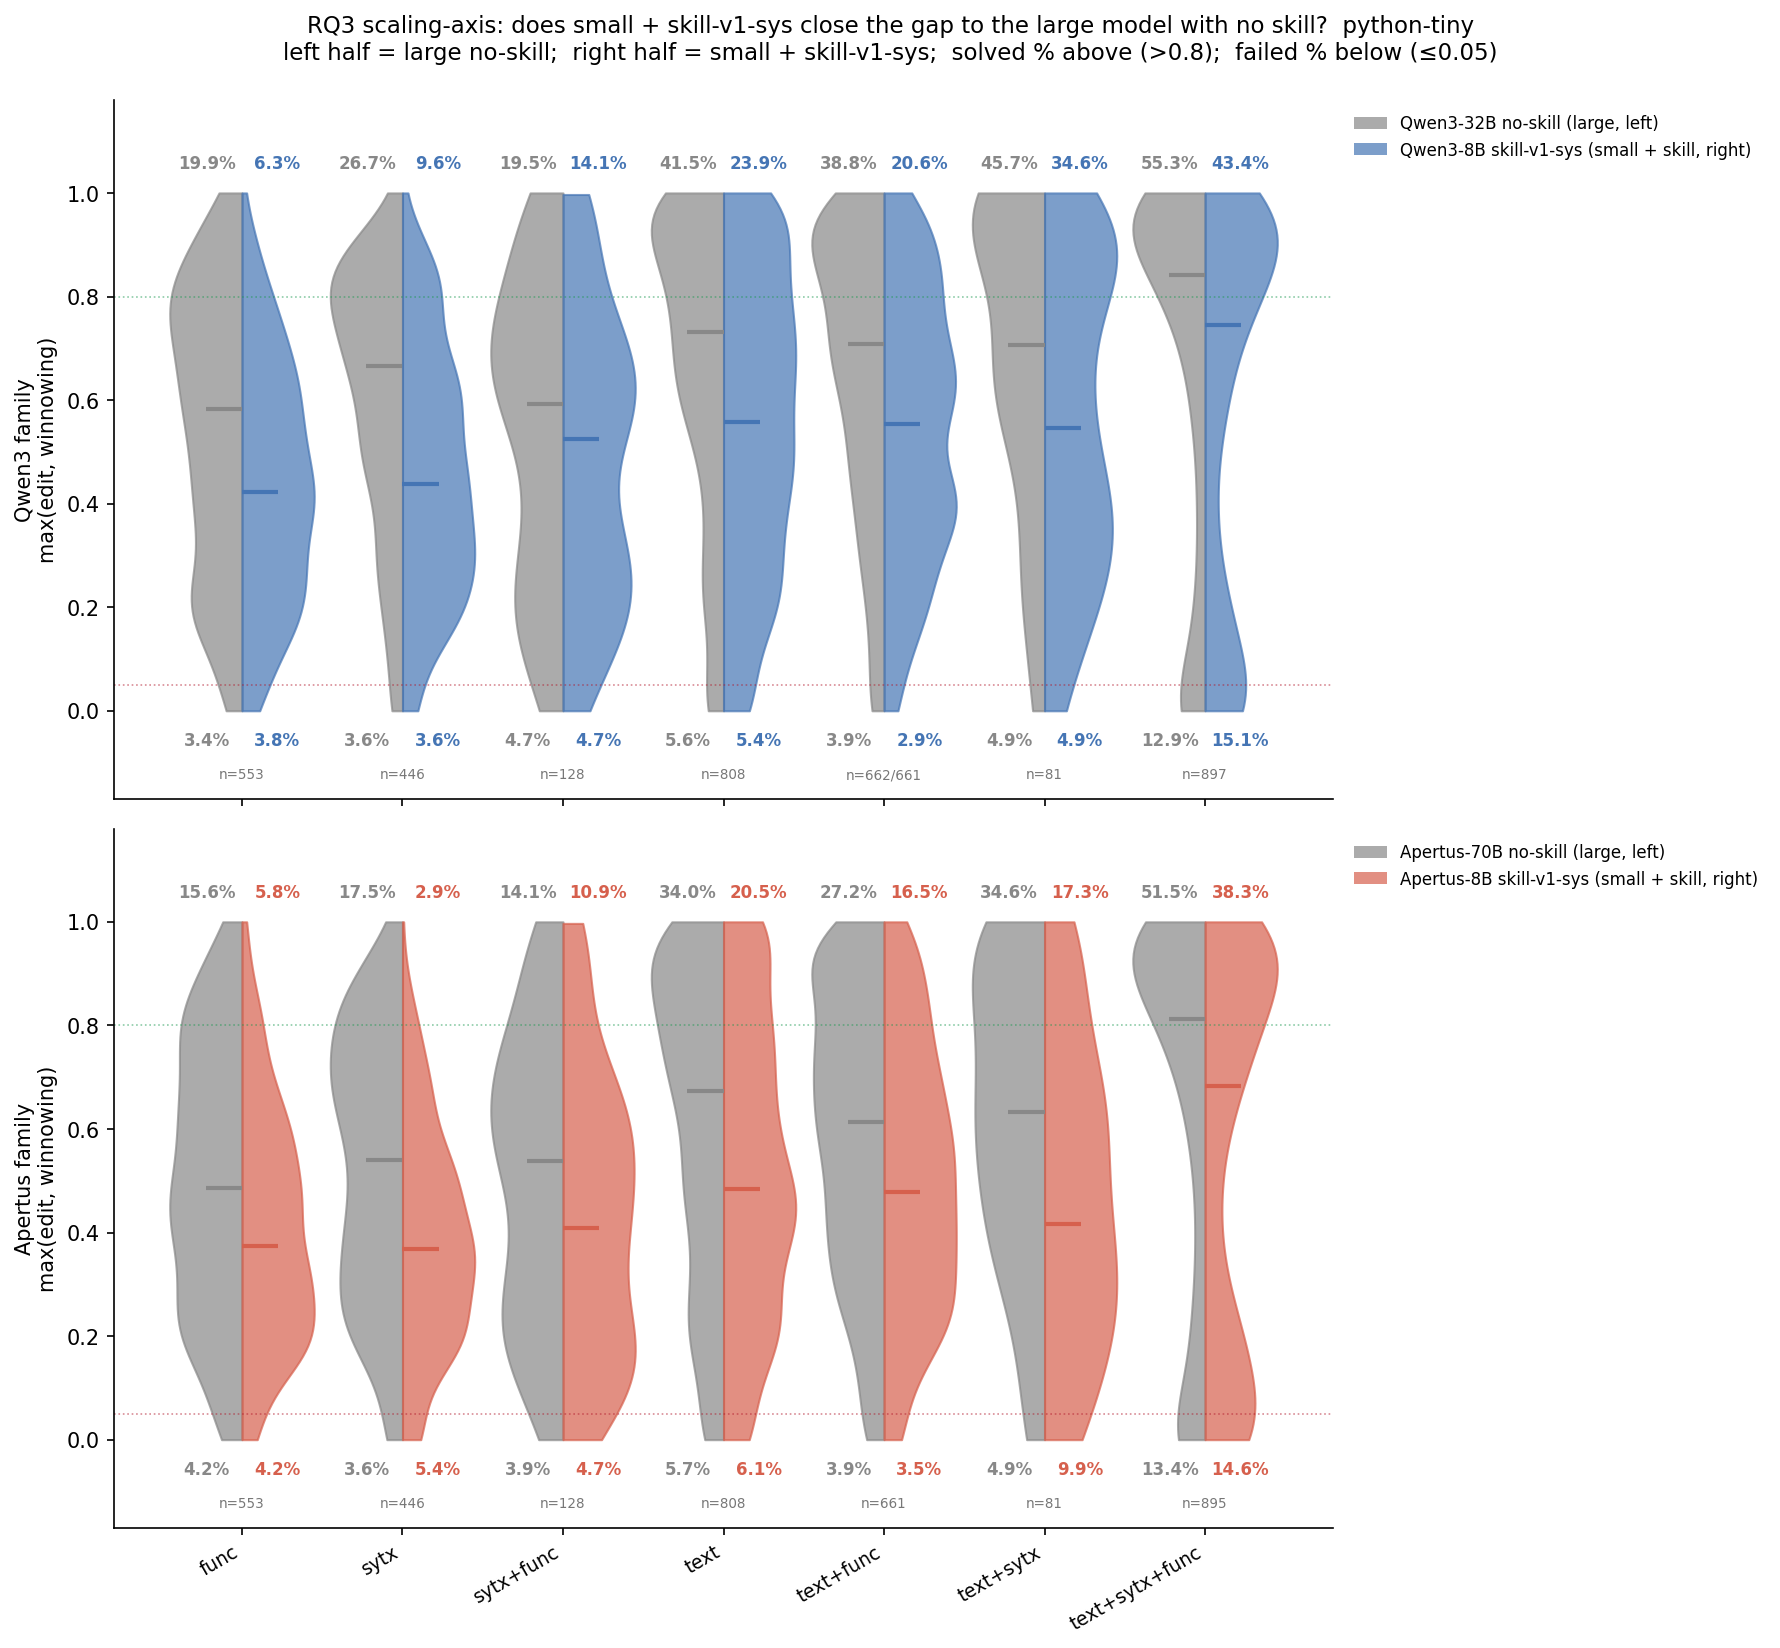
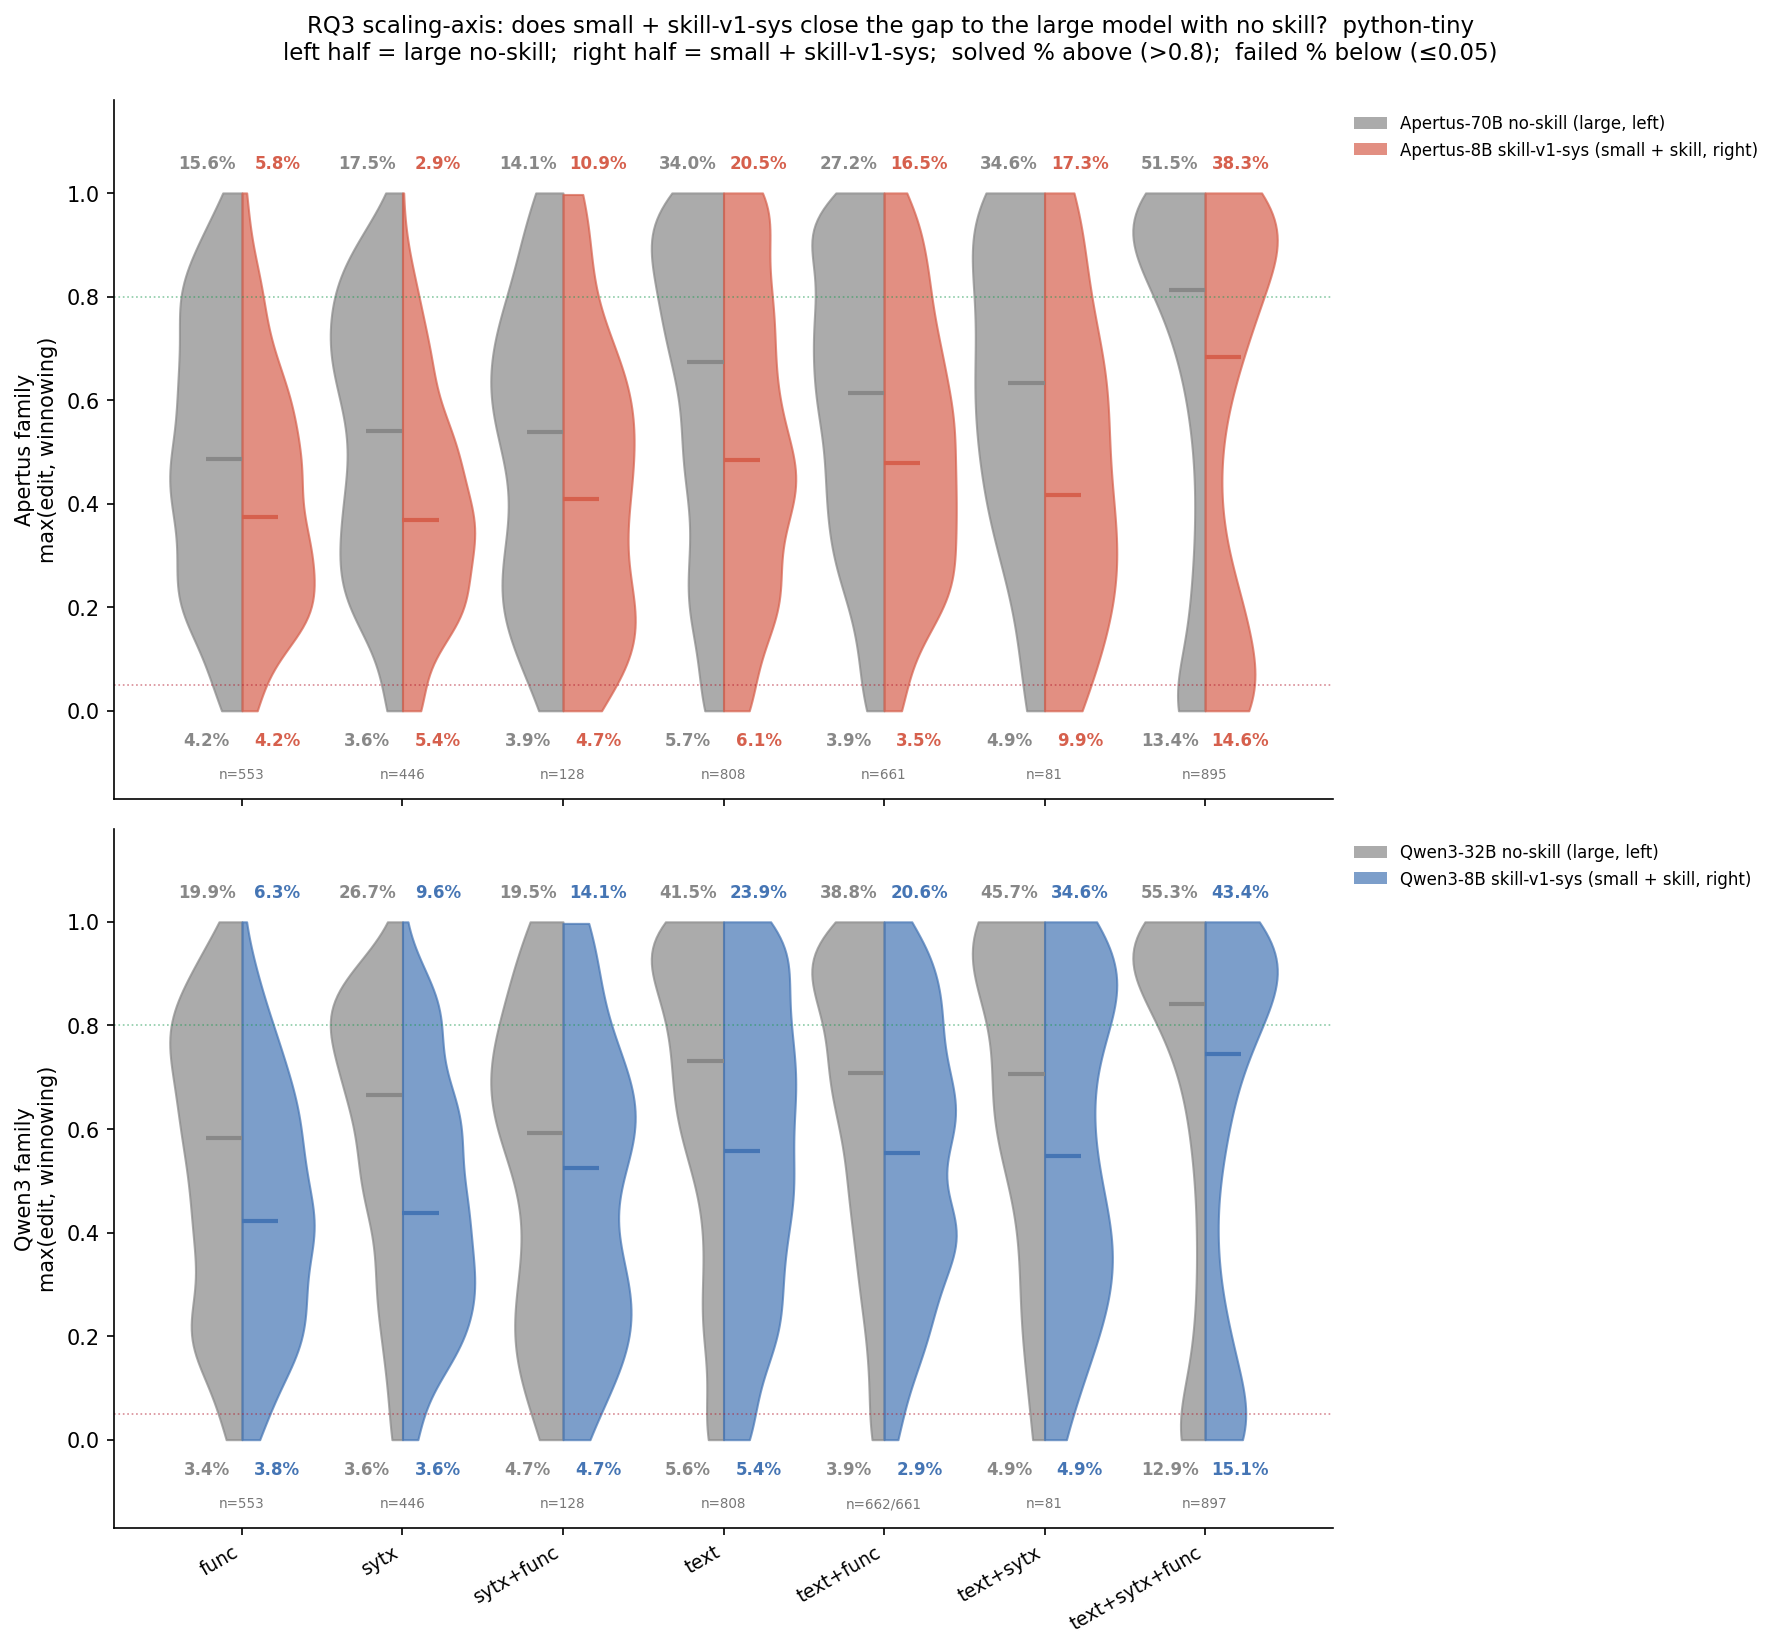
Reorder RQ3 scaling gap-closure figures to Apertus family first
Put the Apertus family panel on top and Qwen3 on the bottom in the
scaling-axis split-violin figures (all versions), matching the
Apertus-first convention. No numbers or labels change; skill-v2.1-sys
conditions are kept (real skill versions in this study).

- plot_rq3_gap_closure_violin_large.py: swap the families list order in
  plot_scaling (+ docstring panel-order note).
- Regenerate rq3_scaling_gap_closure_v{1,2,2.1}_max.png.
- gap_closure_results.md: update the top/bottom panel description.

diff --git a/scripts/plot_rq3_gap_closure_violin_large.py b/scripts/plot_rq3_gap_closure_violin_large.py
@@ -17,7 +17,7 @@ Framing B — SCALING-AXIS (the literal RQ3 wording, family held fixed so only
   scale + skill vary):
     LEFT  = large no-skill            (Qwen3-32B / Apertus-70B baseline)
     RIGHT = small + skill-vX-sys      (Qwen3-8B / Apertus-8B skill)
-  Two stacked panels (Qwen family top, Apertus family bottom). "Does the small
+  Two stacked panels (Apertus family top, Qwen family bottom). "Does the small
   model + skill close the gap to the large model with no skill?"
   -> docs/RQ_123/rq3_scaling_gap_closure_v{ver}_max.png
 
@@ -193,12 +193,12 @@ def plot_scaling(version: str):
     positions = list(range(len(BUCKETS)))
     # (family label, large baseline file, small skill file, small skill colour)
     families = [
-        ("Qwen3", QWEN32_BASELINE,
-         QWEN8_SKILL_TPL.format(ver=version), "Qwen3-32B no-skill",
-         "Qwen3-8B", QWEN_COLOR),
         ("Apertus", APERTUS70_BASELINE,
          APERTUS8_SKILL_TPL.format(ver=version), "Apertus-70B no-skill",
          "Apertus-8B", APERTUS_COLOR),
+        ("Qwen3", QWEN32_BASELINE,
+         QWEN8_SKILL_TPL.format(ver=version), "Qwen3-32B no-skill",
+         "Qwen3-8B", QWEN_COLOR),
     ]
     fig, axes = plt.subplots(2, 1, figsize=(12, 11), sharex=True)
 

diff --git a/docs/RQ_123/gap_closure_results.md b/docs/RQ_123/gap_closure_results.md
@@ -9,8 +9,8 @@ copy-paste source. All numbers verified from source.
 (Qwen3-32B = `_rtx` run).
 
 **Main figure:** `rq3_scaling_gap_closure_v2.1_max.png` — split violins, per
-bucket. **Top panel** = Qwen3 (grey = 32B no-skill, blue = 8B skill-v2.1-sys);
-**bottom panel** = Apertus (grey = 70B no-skill, red = 8B skill-v2.1-sys). Median
+bucket. **Top panel** = Apertus (grey = 70B no-skill, red = 8B skill-v2.1-sys);
+**bottom panel** = Qwen3 (grey = 32B no-skill, blue = 8B skill-v2.1-sys). Median
 = horizontal line.
 
 ![RQ3 scaling gap closure](rq3_scaling_gap_closure_v2.1_max.png)
